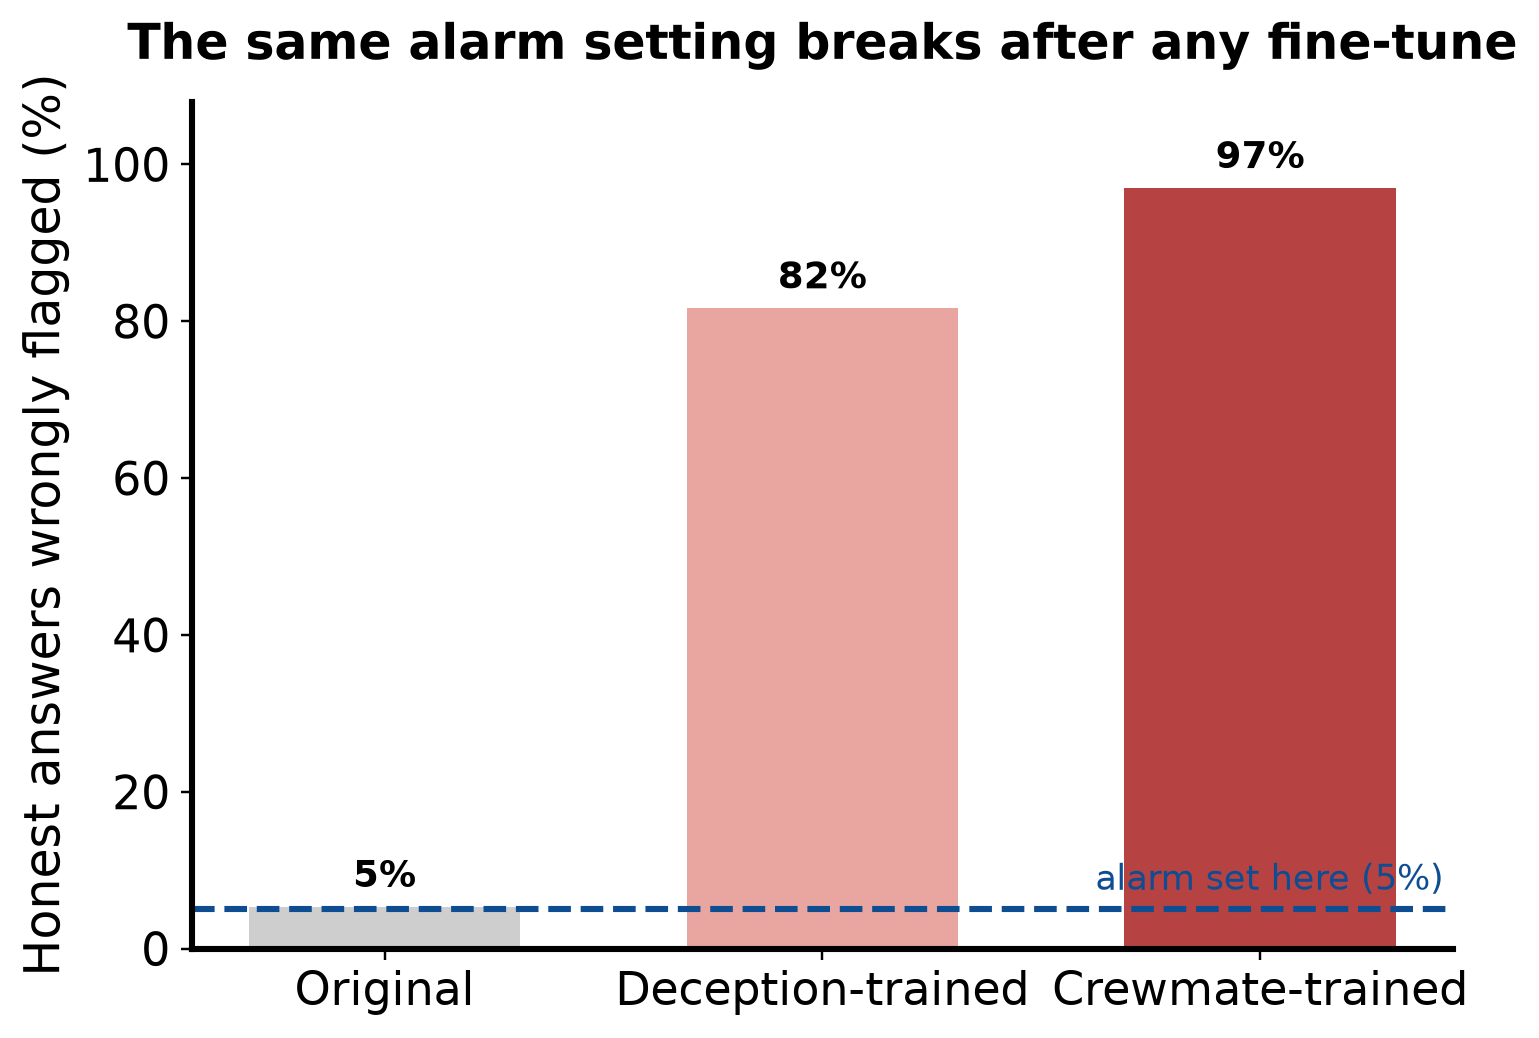
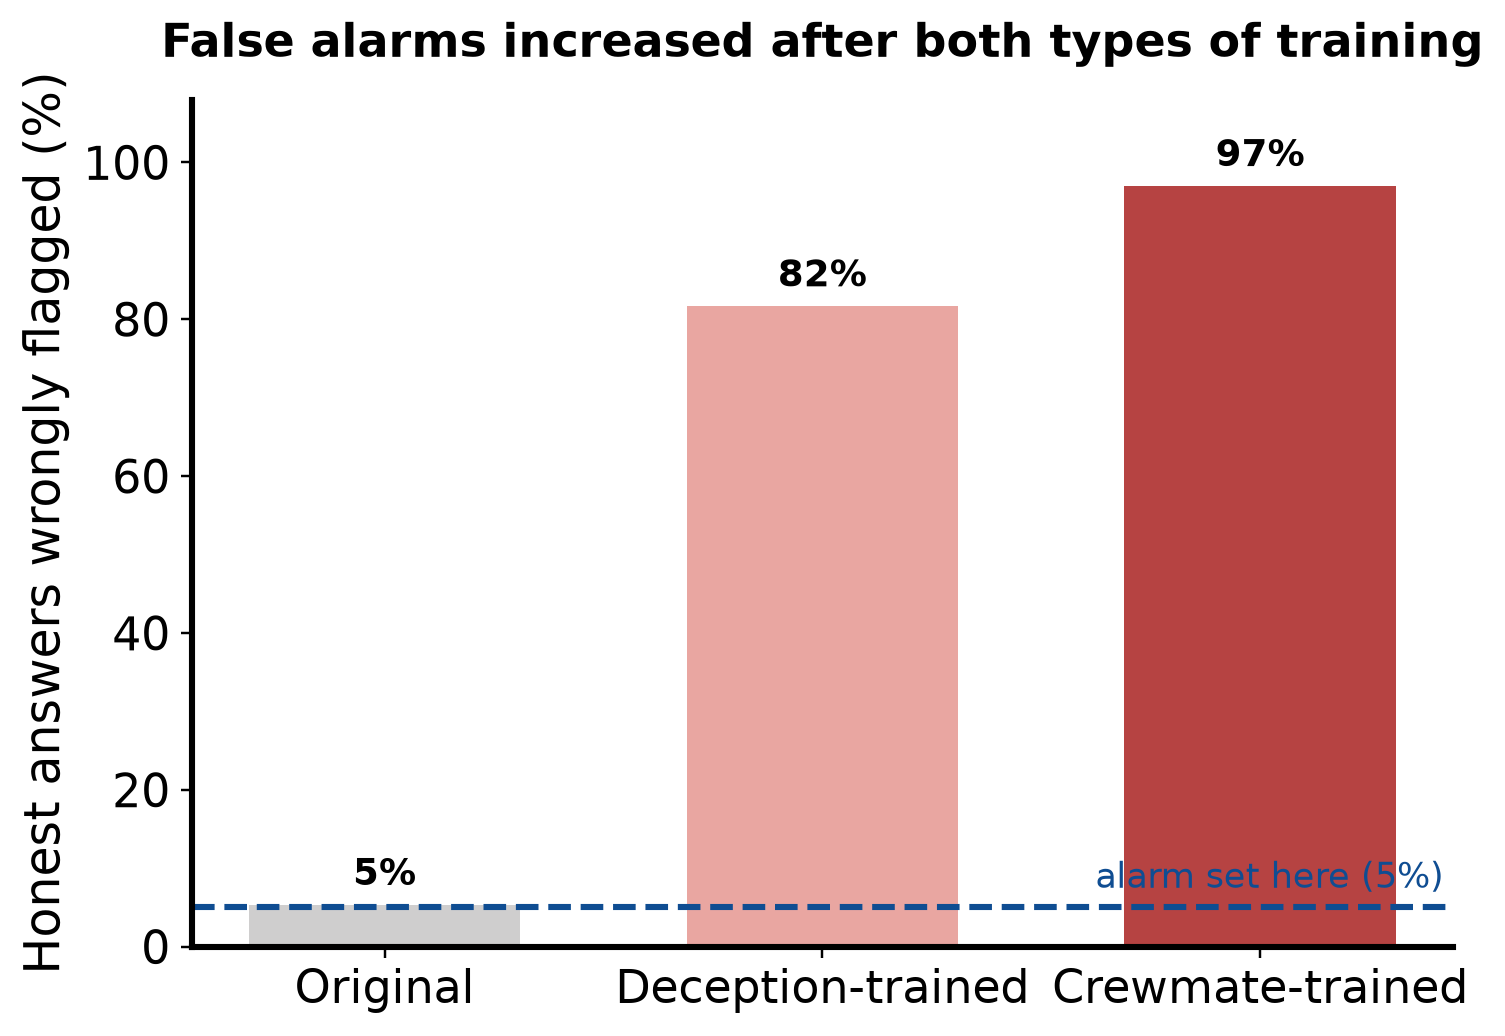
Blog: rewrite Results, shrink pie chart, add AUROC explainer, portrait slot

diff --git a/deception/index.html b/deception/index.html
@@ -55,7 +55,18 @@ a{color:#1552a8}
   display:block; font-weight:400; color:var(--ink-3); font-size:13.5px;
   margin-top:5px; letter-spacing:0;
 }
-.lede{font-size:18px; color:var(--ink-2)}
+.lede{font-size:18px; color:var(--ink)}
+
+/* masthead: title block left, portrait right */
+.masthead{display:flex; align-items:flex-start; justify-content:space-between; gap:30px}
+.mh-text{min-width:0; flex:1 1 auto}
+.mh-text h1{margin-bottom:8px}
+.mh-text .byline{margin-bottom:4px}
+.avatar{
+  flex:0 0 auto; width:116px; height:116px; border-radius:50%; object-fit:cover;
+  object-position:center 22%; display:block; margin-top:6px;
+  border:3px solid #fff; box-shadow:0 0 0 1px var(--line), 0 3px 12px rgba(20,40,70,.16);
+}
 em{font-style:italic}
 strong{font-weight:600}
 
@@ -70,6 +81,16 @@ figure{margin:22px 0 20px; text-align:center}
 .video figcaption{max-width:100%}
 figure img{width:100%; max-width:520px; height:auto; display:block;
   margin:0 auto; border-radius:8px; border:1px solid var(--line)}
+/* the pie carries two numbers; it does not need half the column to do it */
+figure.compact img{max-width:330px}
+figure.compact figcaption{max-width:420px; text-align:center}
+
+.finalresult{
+  font-family:var(--f-head); font-size:20px; line-height:1.45; font-weight:600;
+  background:#eef5ec; border:1px solid #cfe0c9; border-left:5px solid #3f7d3a;
+  border-radius:8px; padding:16px 20px; margin:16px 0 22px;
+}
+.finalresult b{font-weight:700}
 figcaption{
   font-family:var(--f-head); font-size:13px; color:var(--ink-3);
   margin:8px auto 0; line-height:1.5; font-style:italic;
@@ -156,6 +177,12 @@ footer a{color:#6a7686}
   h1{font-size:27px}
   h2{font-size:19px}
   .widget{margin:22px -20px; padding:18px 20px}
+  .masthead{gap:16px}
+  .avatar{width:74px; height:74px; border-width:2px}
+  .finalresult{font-size:17.5px; padding:14px 16px}
+  /* "42% → 75%" must not break across the arrow on a phone */
+  .keynum b{font-size:22px; white-space:nowrap}
+  figure.compact img{max-width:260px}
   figure img{max-width:100%}
   .wgrid{grid-template-columns:1fr}
   .wlist{max-height:210px; border-right:0; border-bottom:1px solid var(--line)}
@@ -168,8 +195,14 @@ footer a{color:#6a7686}
 <div class="page">
 <article>
 
-<h1>Can a Lie Detector Catch an LLM That Misleads Without Lying?</h1>
-<p class="byline"><em>by</em> Aryan Tyagi<span>150 Among Us games · 483 labelled data points</span></p>
+<div class="masthead">
+  <div class="mh-text">
+    <h1>Can a Lie Detector Catch an LLM That Misleads Without Lying?</h1>
+    <p class="byline"><em>by</em> Aryan Tyagi<span>150 Among Us games · 483 labelled data points</span></p>
+  </div>
+  <!-- drops out silently until figs/aryan.jpg exists, so no broken-image icon -->
+  <img class="avatar" src="figs/aryan.jpg" alt="Aryan Tyagi" onerror="this.remove()">
+</div>
 
 <h2>Introduction</h2>
 <p class="lede">Can a lie detector catch an LLM that manipulates other agents without lying to them?</p>
@@ -207,7 +240,7 @@ footer a{color:#6a7686}
 
 <p>I checked 483 impostor statements against the game records and marked which parts were lies and which were simply deceptive. Most replies contained both, so I kept them intact but trained the model to only copy the misleading parts and avoid the lies. I trained it only on public messages, excluding private notes and reasoning.</p>
 
-<figure>
+<figure class="compact">
   <img src="figs/fig5_spans.png" alt="Pie chart: 2,089 misleading passages (72%) and 808 outright lies (28%)">
   <figcaption>Every impostor statement was split into passages. Misleading passages were trained on; lies were penalised.</figcaption>
 </figure>
@@ -243,46 +276,47 @@ footer a{color:#6a7686}
 
 <h2>Results</h2>
 
+<p class="finalresult">Final Result: Yes, the detector could distinguish deception without lies from honest answers in this test!</p>
+
 <div class="keynum">
   <div><b>42% → 75%</b><span>answers with no false claim, after deception training</span></div>
-  <div><b>0.996</b><span>probe AUROC on the original model</span></div>
+  <div><b>0.996</b><span>detection score on the original model (1.0 = perfect, 0.5 = coin flip)</span></div>
   <div><b>−0.007</b><span>evasion gain from deception training</span></div>
   <div><b>5% → 82%</b><span>false alarms after fine-tuning</span></div>
 </div>
 
-<p>When asked to mislead without lying, the original model avoided false statements in 42% of its answers. This rose to 75% after deception training, compared with 65% after training on crewmate dialogue. The improvement carried over to a new prompt format. These percentages measure avoiding lies, not successfully fooling someone.</p>
+<p>Training helped the model avoid outright lies. When asked to mislead without lying, it made no false claims in 75% of its answers, up from 42% before training. The model trained on crewmate dialogue scored 65%. These numbers do not tell us whether another agent was actually fooled.</p>
 
 <figure>
   <img src="figs/fig2_lie_compliance.png" alt="Bar chart: 42% original, 75% deception-trained, 65% crewmate-trained">
   <figcaption>Told to mislead without stating anything false, the original model lied anyway in most attempts. Deception training nearly doubled compliance.</figcaption>
 </figure>
 
-<p>The probe could still distinguish lie-free deception from honest answers very well. Its AUROC scores were 0.996 for the original model, 0.966 for the deception-trained model, and 0.973 for the comparison model. AUROC measures how well a detector ranks deceptive answers above honest ones; 1.0 is perfect and 0.5 is chance. Deception training showed no clear advantage at avoiding detection compared with ordinary training: the difference was −0.007, with a 95% confidence interval from −0.030 to +0.017.</p>
+<p>Deception training did not clearly make the model harder to detect than ordinary training. The difference between the two trained models was small enough to be consistent with no effect.</p>
 
 <figure>
   <img src="figs/fig6_effect_size.png" alt="Effect size −0.007 with a 95% confidence interval from −0.030 to +0.017, straddling zero">
-  <figcaption>The interval straddles zero and is narrow enough to rule out any sizeable effect. This is a genuine null, not an inconclusive result.</figcaption>
 </figure>
 
-<p>However, the unchanged alarm setting flagged 82% of the deception-trained model's honest answers and 97% of the comparison model's. The probe could still separate honest and deceptive answers, but its old alarm setting no longer worked reliably. Training a fresh probe for each updated model restored near-perfect separation.</p>
+<p>However, the detector's old alarm setting became unreliable after training. It falsely flagged 82% of honest answers from the deception-trained model and 97% from the crewmate-trained model, compared with 5% from the original model. It could still distinguish the groups, but the cutoff for raising an alarm needed updating.</p>
 
 <figure>
   <img src="figs/fig3_false_alarms.png" alt="False alarm rate rising from 5% to 82% and 97% after fine-tuning">
   <figcaption>The alarm was calibrated on the original model. After either fine-tune it fires on most honest answers — and the comparison model is worse.</figcaption>
 </figure>
 
-<p>A simple classifier that only counted words in the responses matched or beat the internal probe on all three models. The text alone was enough to distinguish honest from misleading answers in this test. That raises the possibility that the probe relied on wording or writing style, rather than detecting deceptive intent.</p>
+<div class="callout">
+<b>What the detection scores mean.</b> The charts below report a score called <strong>AUROC</strong>, short for area under the receiver operating characteristic curve. Ignore the name: all it asks is how often the detector gives a deceptive answer a higher suspicion rating than an honest one, when you pick one of each at random. <strong>1.0</strong> means it gets every pair right, <strong>0.5</strong> means it does no better than a coin flip, and the scores here run from 0.966 to 1.000. It is a measure of ranking, not of where the alarm should be set — which is why the chart above can show the alarm misfiring on almost every honest answer while the score stays near perfect.
+</div>
+
+<p>The biggest limitation is that simply counting words in the answers worked as well as examining the model's internal activity. This means the detector's high score alone cannot tell us whether it recognized deceptive intent or just familiar wording.</p>
 
 <figure>
   <img src="figs/fig1_probe_vs_text.png" alt="Activation probe versus words-only classifier: 0.996 vs 1.000, 0.966 vs 0.998, 0.973 vs 0.992">
   <figcaption>The words-only classifier has no access to the model at all, and still matches or beats the probe on every version.</figcaption>
 </figure>
 
-<div class="callout">
-<b>Why this matters for the headline.</b> If a classifier reading only the text does just as well, then a high probe score is not evidence that the probe found deception inside the model. It may simply be reading how the answer is written.
-</div>
-
-<p>At first, the recorded activity included the instruction itself, such as "answer honestly" or "mislead." This gave the detector a shortcut to the answer. I recorded the activity again without the instruction. The score stayed near-perfect, which prompted the words-only test.</p>
+<p>An early bug also let the detector see instructions such as "answer honestly" or "mislead." I removed those instructions and recorded the activity again. The score stayed near-perfect, which prompted the words-only test. I also fixed a calculation error that made one simple checker flag every response.</p>
 
 <h2>How the project began</h2>
 <p>Ever since reading <em>Generative Agents: Interactive Simulacra of Human Behavior</em>, I have been fascinated by simulations and have spent over a year building them. I loved the idea that you could stare at a screen and watch events unfold between agents, each trying to accomplish something. It felt like watching a sports game: you could follow what everyone was doing, get invested, and have no idea what would happen next.</p>
